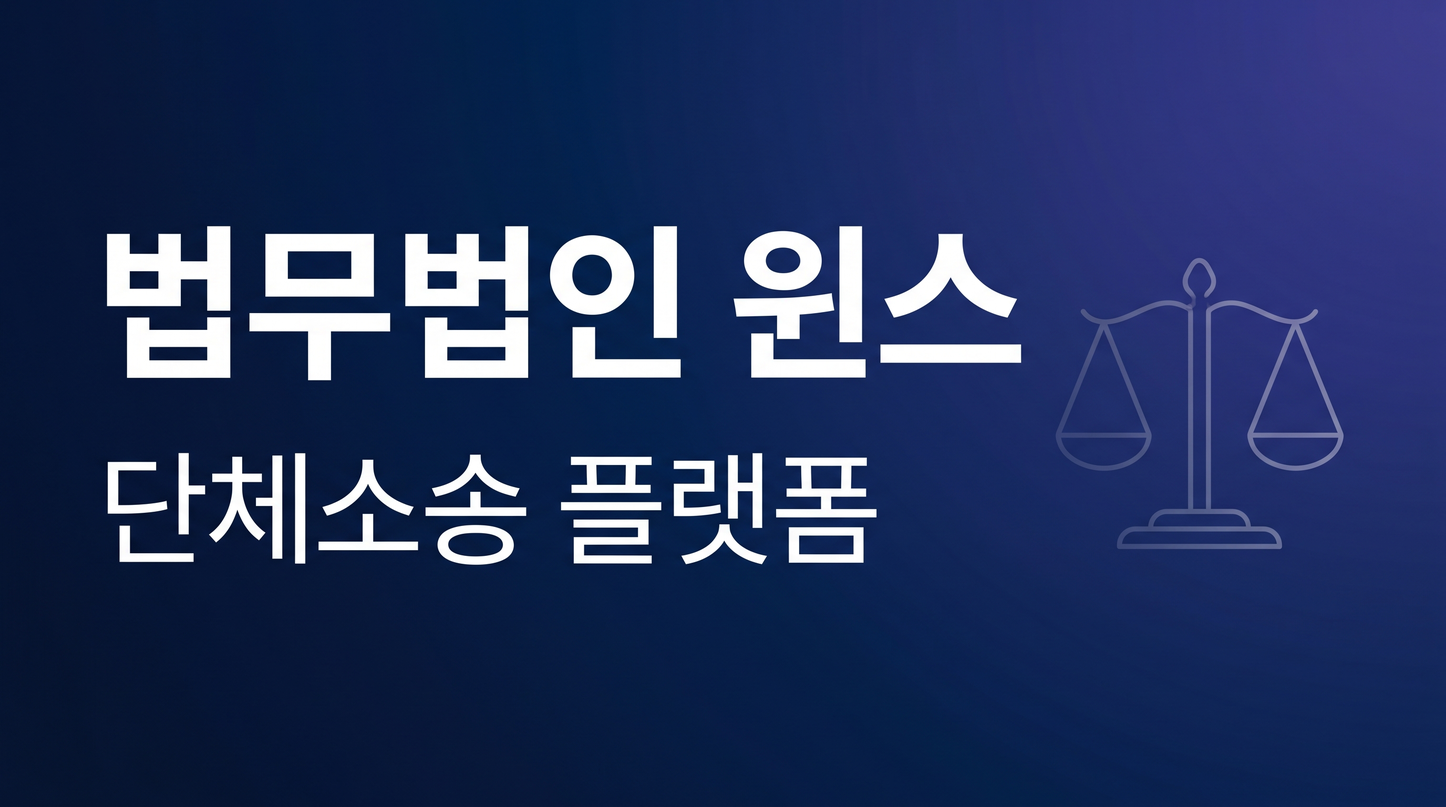
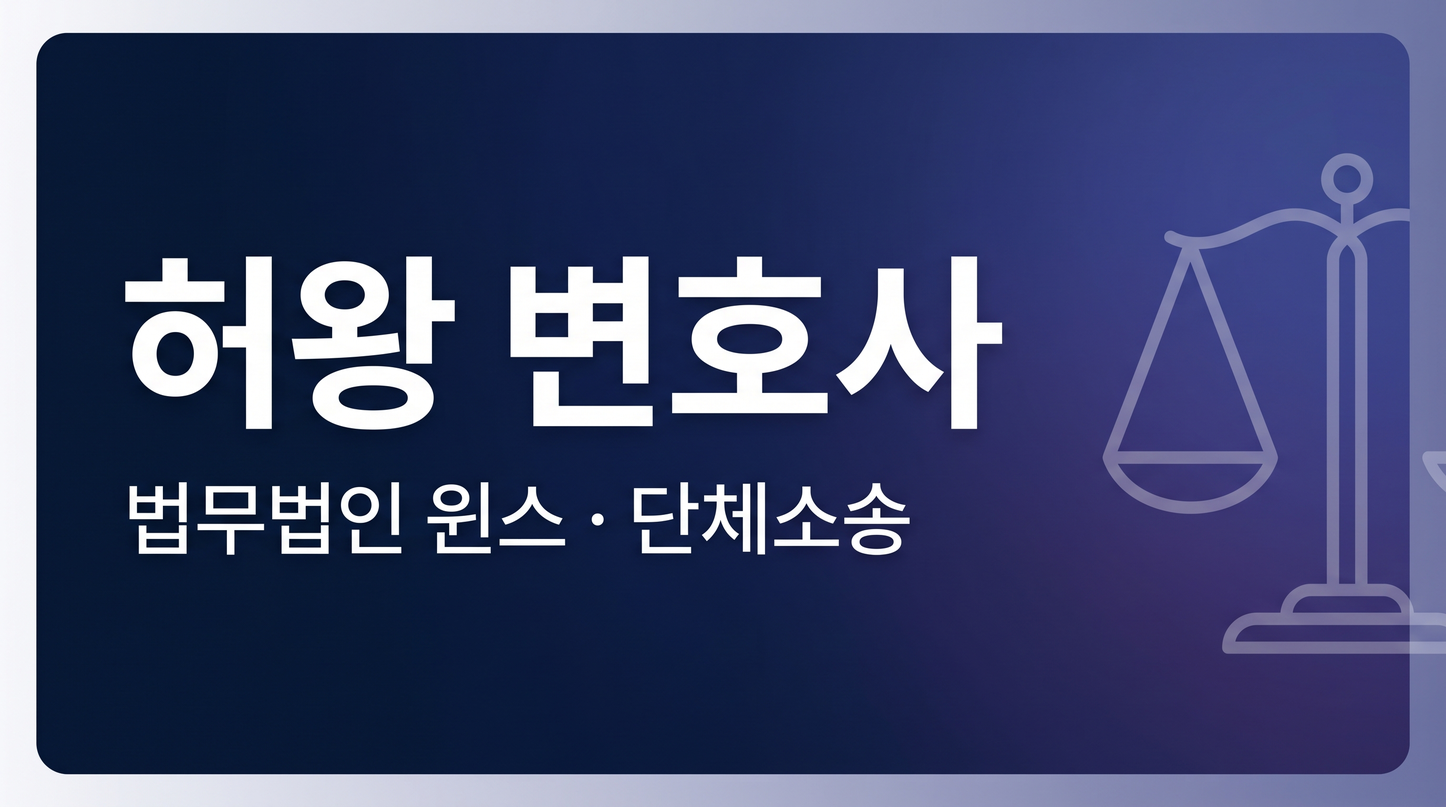
브랜딩: 허왕 변호사 전면 강조 (서비스 주체=법무법인 윈스)
사용자 지시 — 법무법인 윈스가 직접 서비스하되 허왕 변호사를 전면에 강조.
- Header: 브랜드 로고 "허" + "허왕 변호사"(主) / "단체소송 · 법무법인 윈스"(從).
- Landing 히어로: "허왕 변호사가 직접 이끄는 단체소송", 운영주체 법무법인 윈스 병기.
- Footer: "허왕 변호사" 헤드 + 법무법인 윈스(사업자·주소·등록번호) 유지, 카피라이트 병기.
- index.html 타이틀/OG·server/og.ts(사건 OG 타이틀·site_name·기본설명): 허왕 변호사 전면.
- public/og-default.jpg: 허왕 변호사 대제목 + 법무법인 윈스·단체소송 부제로 재생성.

회사명 풀표기 유지(법무법인 윈스). Phase 6 알림 발신자명도 동일 결로 적용 예정.

diff --git a/index.html b/index.html
@@ -3,18 +3,18 @@
   <head>
     <meta charset="UTF-8" />
     <meta name="viewport" content="width=device-width, initial-scale=1.0" />
-    <title>단체소송 플랫폼 - 법무법인 윈스</title>
-    <meta name="description" content="단체소송 참여, 사건 경과 확인, 지급명령·가압류 신청 - 법무법인 윈스" />
+    <title>허왕 변호사 단체소송 - 법무법인 윈스</title>
+    <meta name="description" content="허왕 변호사가 이끄는 단체소송 — 참여·경과 확인·지급명령·가압류 | 법무법인 윈스" />
     <!-- 기본 OG/Twitter (사건 상세는 서버가 사건값으로 덮어씀, server/og.ts) -->
     <meta property="og:type" content="website" />
-    <meta property="og:site_name" content="법무법인 윈스 단체소송" />
-    <meta property="og:title" content="단체소송 플랫폼 - 법무법인 윈스" />
-    <meta property="og:description" content="단체소송 참여, 사건 경과 확인, 지급명령·가압류 신청 - 법무법인 윈스" />
+    <meta property="og:site_name" content="허왕 변호사 단체소송" />
+    <meta property="og:title" content="허왕 변호사 단체소송 - 법무법인 윈스" />
+    <meta property="og:description" content="허왕 변호사가 이끄는 단체소송 — 참여·경과 확인·지급명령·가압류 | 법무법인 윈스" />
     <meta property="og:image" content="https://class.day.lawyer/og-default.jpg" />
     <meta property="og:url" content="https://class.day.lawyer" />
     <meta name="twitter:card" content="summary_large_image" />
-    <meta name="twitter:title" content="단체소송 플랫폼 - 법무법인 윈스" />
-    <meta name="twitter:description" content="단체소송 참여, 사건 경과 확인, 지급명령·가압류 신청 - 법무법인 윈스" />
+    <meta name="twitter:title" content="허왕 변호사 단체소송 - 법무법인 윈스" />
+    <meta name="twitter:description" content="허왕 변호사가 이끄는 단체소송 — 참여·경과 확인·지급명령·가압류 | 법무법인 윈스" />
     <meta name="twitter:image" content="https://class.day.lawyer/og-default.jpg" />
     <link rel="stylesheet" as="style" crossorigin href="https://cdn.jsdelivr.net/gh/orioncactus/pretendard@v1.3.9/dist/web/static/pretendard.min.css" />
   </head>

diff --git a/client/pages/Landing.tsx b/client/pages/Landing.tsx
@@ -21,14 +21,14 @@ export default function Landing() {
       <section className="bg-gradient-to-br from-primary-500 via-primary-600 to-primary-800 text-white">
         <div className="max-w-7xl mx-auto px-4 py-20 md:py-28">
           <div className="max-w-3xl">
+            <p className="text-accent-400 font-semibold mb-3 tracking-wide">법무법인 윈스</p>
             <h1 className="text-4xl md:text-5xl font-extrabold leading-tight mb-6">
-              함께하면 강해지는<br />
-              <span className="text-accent-500">단체소송</span> 플랫폼
+              허왕 변호사가 직접 이끄는<br />
+              <span className="text-accent-500">단체소송</span>
             </h1>
             <p className="text-lg md:text-xl text-white/80 mb-8 leading-relaxed">
-              법무법인 윈스가 운영하는 단체소송 플랫폼입니다.<br />
               당사자 모집부터 증거 수집, 수임계약, 소송 진행 현황까지<br />
-              원스톱으로 관리합니다.
+              허왕 변호사와 법무법인 윈스가 원스톱으로 함께합니다.
             </p>
             <div className="flex flex-wrap gap-4">
               <Link to="/cases" className="btn-accent text-base px-8 py-3">진행 중인 사건 보기</Link>

diff --git a/client/components/layout/Footer.tsx b/client/components/layout/Footer.tsx
@@ -41,8 +41,10 @@ export default function Footer() {
       <div className="max-w-7xl mx-auto px-4 py-8">
         <div className="grid md:grid-cols-3 gap-8">
           <div>
-            <h3 className="text-white font-bold mb-3">법무법인 윈스</h3>
+            <h3 className="text-white font-bold mb-1">허왕 변호사</h3>
+            <p className="text-sm text-gray-500 mb-3">단체소송 · 법무법인 윈스</p>
             <p className="text-sm leading-relaxed">
+              법무법인 윈스<br />
               서울특별시 서초구 서초대로 301, 동익성봉빌딩 12층<br />
               TEL: 02-585-2927 | FAX: 02-585-2928<br />
               사업자등록번호: 264-81-03078
@@ -68,7 +70,7 @@ export default function Footer() {
         </div>
         <div className="mt-8 pt-6 border-t border-gray-800 text-xs text-center space-y-1">
           <div><Link to="/privacy" className="hover:text-white transition-colors">개인정보처리방침</Link></div>
-          <div>&copy; {new Date().getFullYear()} 법무법인 윈스. All rights reserved.</div>
+          <div>&copy; {new Date().getFullYear()} 법무법인 윈스 · 허왕 변호사. All rights reserved.</div>
         </div>
       </div>
     </footer>

diff --git a/server/og.ts b/server/og.ts
@@ -35,8 +35,8 @@ export async function buildCaseOg(id: number): Promise<CaseOg | null> {
   try {
     const [c] = await db.select().from(cases).where(eq(cases.id, id)).limit(1);
     if (c) {
-      const title = `${c.title} | 법무법인 윈스 단체소송`;
-      const description = (c.summary || c.description || "단체소송 참여자를 모집합니다 - 법무법인 윈스")
+      const title = `${c.title} | 허왕 변호사 단체소송`;
+      const description = (c.summary || c.description || "허왕 변호사(법무법인 윈스)와 함께하는 단체소송 — 참여자를 모집합니다")
         .replace(/\s+/g, " ")
         .trim()
         .slice(0, 150);
@@ -68,7 +68,7 @@ export function injectCaseOg(html: string, og: CaseOg): string {
     `<title>${t}</title>`,
     `<meta name="description" content="${d}" />`,
     `<meta property="og:type" content="website" />`,
-    `<meta property="og:site_name" content="법무법인 윈스 단체소송" />`,
+    `<meta property="og:site_name" content="허왕 변호사 단체소송" />`,
     `<meta property="og:title" content="${t}" />`,
     `<meta property="og:description" content="${d}" />`,
     `<meta property="og:image" content="${img}" />`,

diff --git a/client/components/layout/Header.tsx b/client/components/layout/Header.tsx
@@ -11,10 +11,10 @@ export default function Header() {
       <div className="max-w-7xl mx-auto px-4 h-16 flex items-center justify-between">
         <Link to="/" className="flex items-center gap-2">
           <div className="w-8 h-8 bg-primary-500 rounded-lg flex items-center justify-center">
-            <span className="text-white font-bold text-sm">W</span>
+            <span className="text-white font-bold text-sm">허</span>
           </div>
-          <span className="font-bold text-lg text-primary-500">단체소송</span>
-          <span className="text-xs text-gray-400 hidden sm:inline">법무법인 윈스</span>
+          <span className="font-bold text-lg text-primary-500">허왕 변호사</span>
+          <span className="text-xs text-gray-400 hidden sm:inline">단체소송 · 법무법인 윈스</span>
         </Link>
 
         {/* Desktop Nav */}
